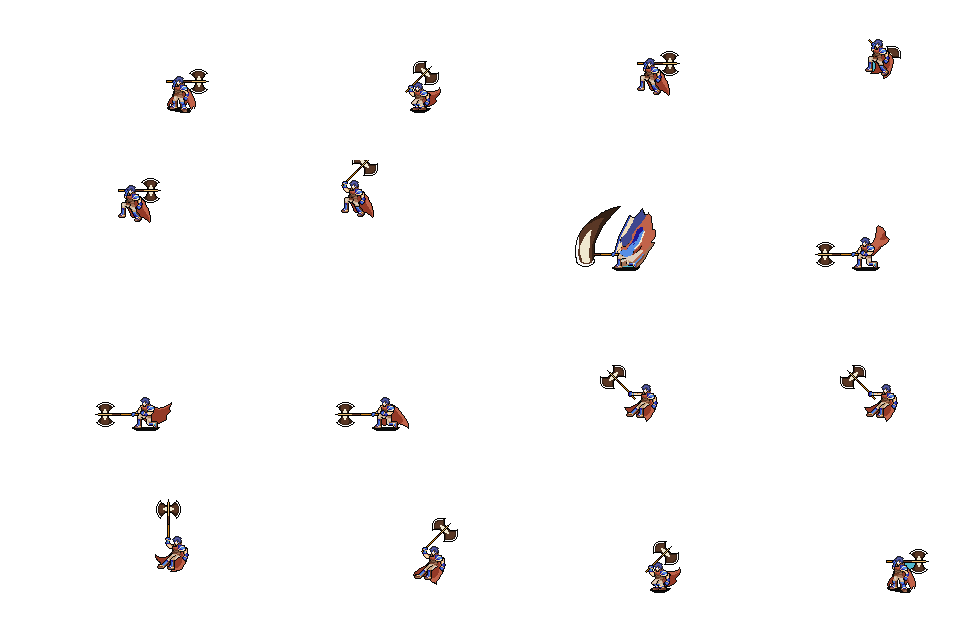
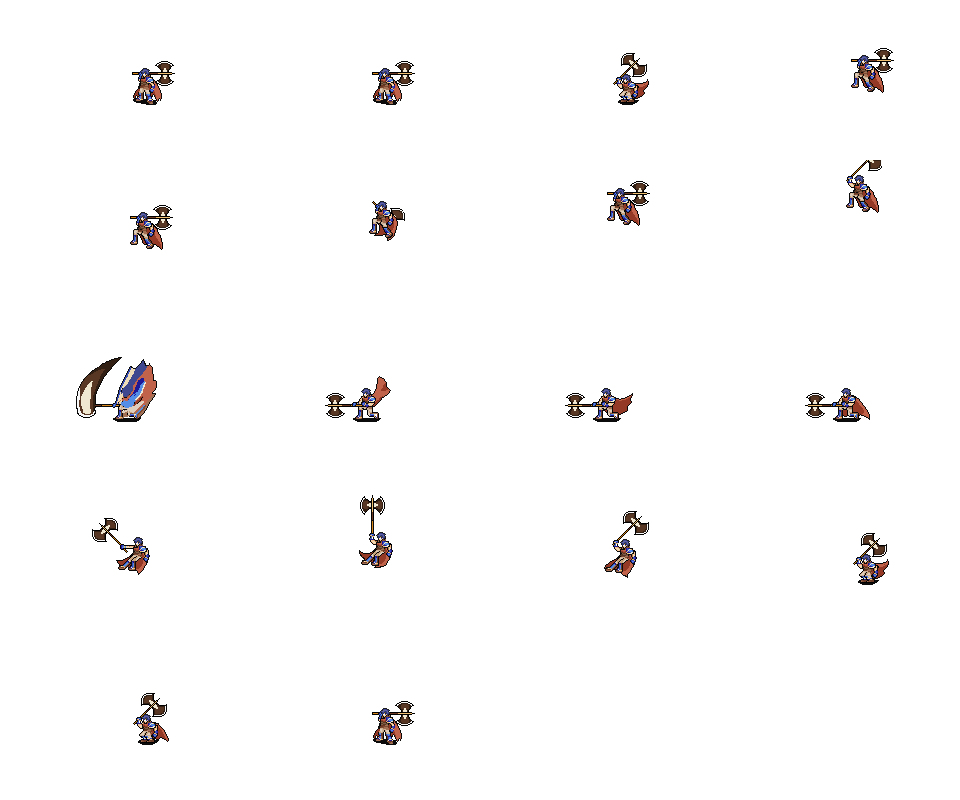
Fixed Ike attack, future Ike changes policy
moving rest of work to 'weLikeIke'

diff --git a/src/net/fe/FEMultiplayer.java b/src/net/fe/FEMultiplayer.java
@@ -70,7 +70,7 @@ public class FEMultiplayer extends Game{
 //			SoundTrack.enabled = false;
 			game.init(480, 320, "Fire Emblem Multiplayer");
 			/* Testing code */
-//			game.testFightStage();
+			game.testFightStage();
 //			game.testOverworldStage();
 //			game.testDraftStage();
 			game.loop();
@@ -152,7 +152,7 @@ public class FEMultiplayer extends Game{
 		Unit u1 = UnitFactory.getUnit("Ike");
 		u1.getInventory().add(WeaponFactory.getWeapon("Brave Axe"));
 		map.addUnit(u1, 0, 0);
-		u1.equip(0);
+		u1.equip(1);
 		u1.setLevel(20);
 		u1.loadMapSprites();
 		p1.getParty().addUnit(u1);
